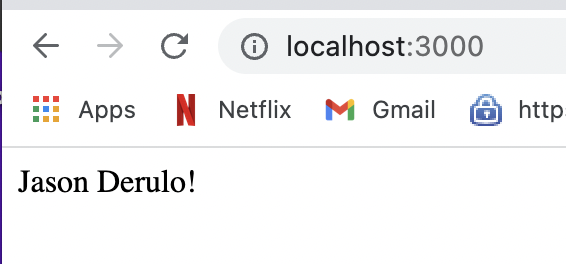
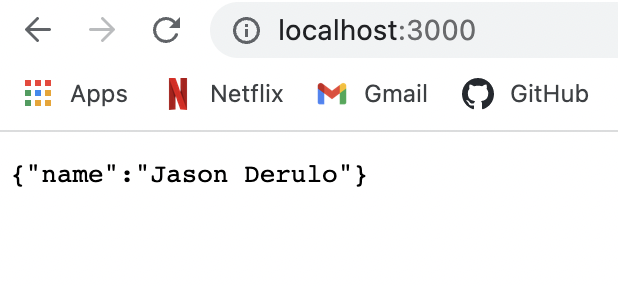
Edited Readme

Changed region(s): [[0.0, 0.0, 1.0, 1.0], [0.3604, 0.0606, 0.871, 0.2424]]

diff --git a/README.md b/README.md
@@ -1,5 +1,8 @@
 # react-node-app
 Just for learning how to build a react app from scratch
 
-## Locally hosted
+## Node.js app hosted locally
 ![example](https://github.com/deanhoperobertson/react-node-app/blob/main/localhost.png)
+
+## React app hosted locally
+![example](https://github.com/deanhoperobertson/react-node-app/blob/main/localhost2.png)
